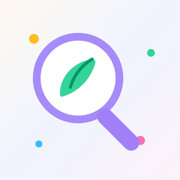
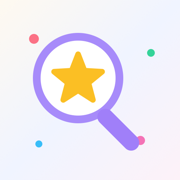
Benenne die App in Kinderwiki um
Die Seite tritt nicht mehr als reines Natur-Wiki auf, damit weitere
Themen (z. B. Musik) dazukommen können:

- Wortmarke, Seitentitel, PWA-Manifest, Paketname und README heißen
  jetzt "Kinderwiki"
- Themenneutraler Slogan "Entdecke die Welt!" und neutrale
  Manifest-Beschreibung
- App-Icon zeigt einen Stern statt eines Blatts in der Lupe; alle
  PNG-Größen neu erzeugt

Die Basis-URL /schultiersuche/ und das Tiere/Pflanzen-Modell bleiben
unverändert.

Changed region(s): [[0.2778, 0.2778, 0.5833, 0.5833], [0.1389, 0.1667, 0.2222, 0.25]]

diff --git a/vite.config.ts b/vite.config.ts
@@ -19,10 +19,10 @@ export default defineConfig({
       // Registrierungs-Code wird automatisch in die index.html injiziert.
       injectRegister: "auto",
       manifest: {
-        name: "Schul-Natur-Wiki",
-        short_name: "Natur-Wiki",
+        name: "Kinderwiki",
+        short_name: "Kinderwiki",
         description:
-          "Tiere und Pflanzen entdecken – offline nutzbar für draußen in der Natur.",
+          "Wissen für Kinder zum Entdecken – auch offline nutzbar.",
         lang: "de",
         // Pfade relativ zum manifest (liegt unter /schultiersuche/).
         start_url: ".",

diff --git a/index.html b/index.html
@@ -11,8 +11,8 @@
     <meta name="mobile-web-app-capable" content="yes" />
     <meta name="apple-mobile-web-app-capable" content="yes" />
     <meta name="apple-mobile-web-app-status-bar-style" content="default" />
-    <meta name="apple-mobile-web-app-title" content="Schul-Natur-Wiki" />
-    <title>Schul-Natur-Wiki</title>
+    <meta name="apple-mobile-web-app-title" content="Kinderwiki" />
+    <title>Kinderwiki</title>
   </head>
   <body>
     <div id="root"></div>

diff --git a/src/pages/Home.tsx b/src/pages/Home.tsx
@@ -26,7 +26,7 @@ export default function Home() {
         <Wordmark />
       </div>
       <p className="text-gray-500 text-lg md:text-xl mb-10 font-semibold">
-        Entdecke Tiere und Pflanzen!
+        Entdecke die Welt!
       </p>
       <SearchBar autoFocus />
 

diff --git a/src/components/Wordmark.tsx b/src/components/Wordmark.tsx
@@ -1,4 +1,4 @@
-const WORDMARK = "Schul-Natur-Wiki";
+const WORDMARK = "Kinderwiki";
 
 const colors = [
   "text-rose-500",

diff --git a/README.md b/README.md
@@ -1,5 +1,5 @@
-# Schul-Natur-Wiki
+# Kinderwiki
 
-A Google-style search app for school — discover animals and plants of local nature.
+A Google-style search wiki for kids at school — short, friendly articles to discover, starting with the animals and plants of local nature.
 
 **[Live Demo](https://mxlnk.github.io/schultiersuche/)**
